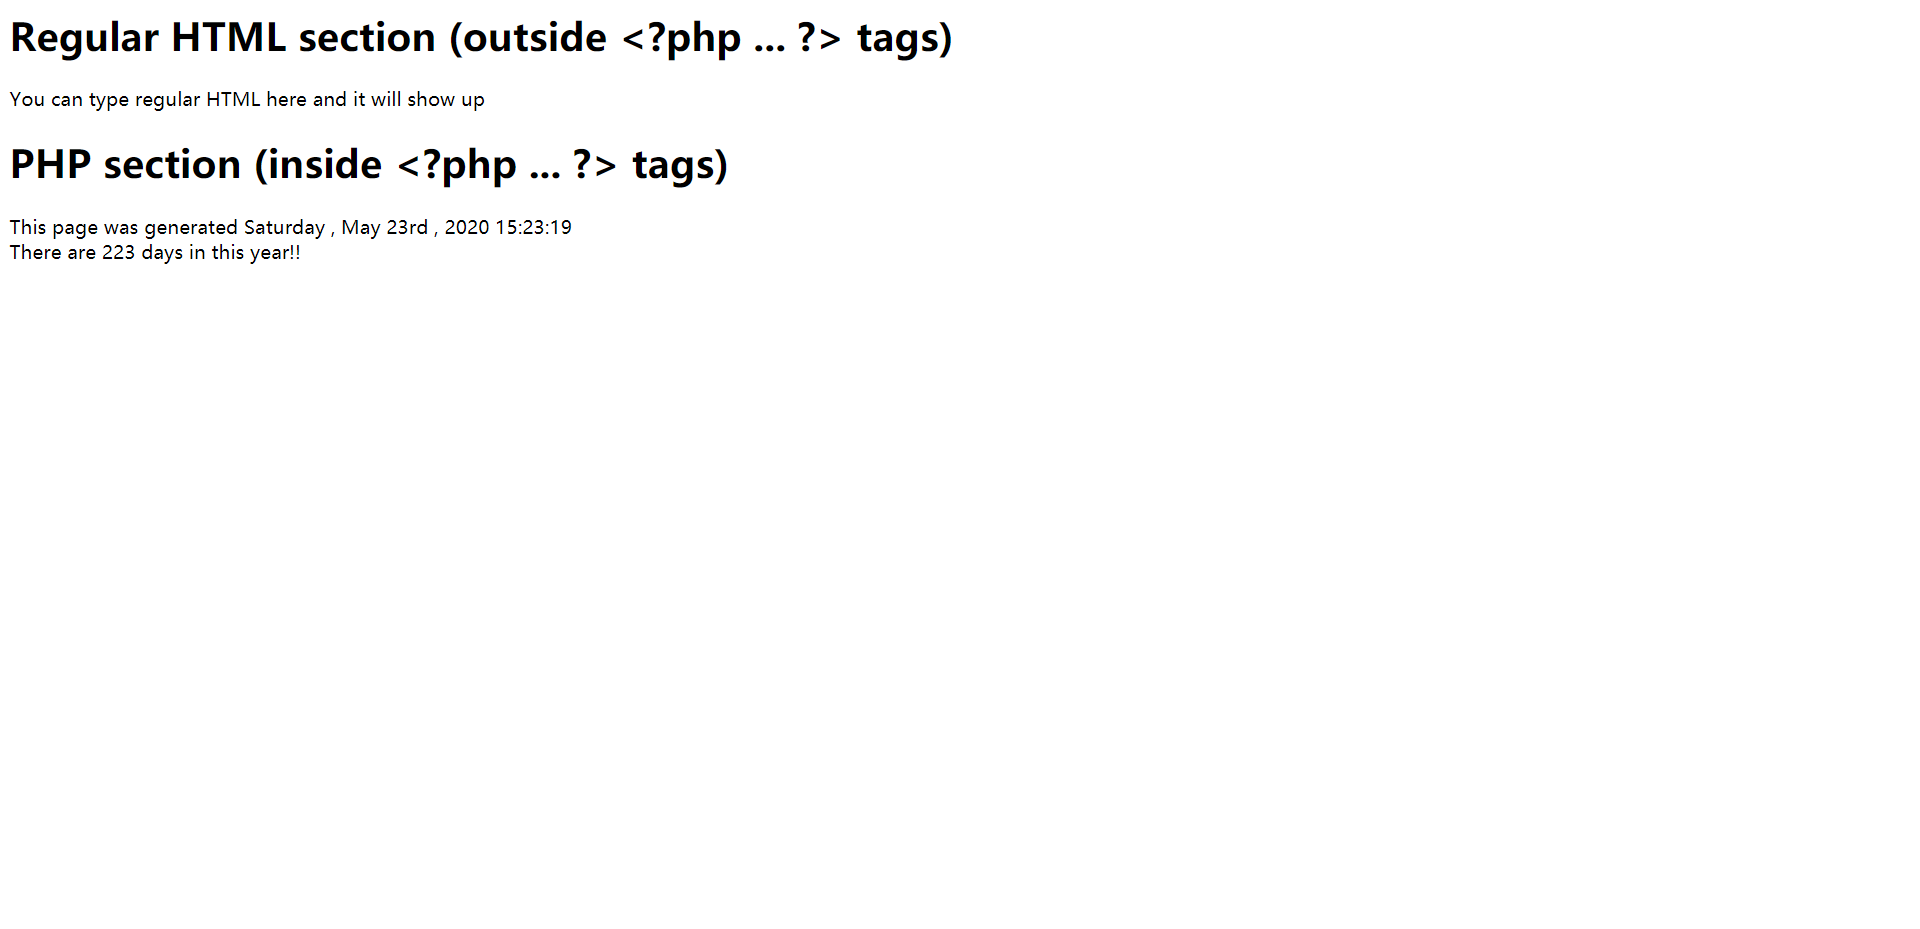
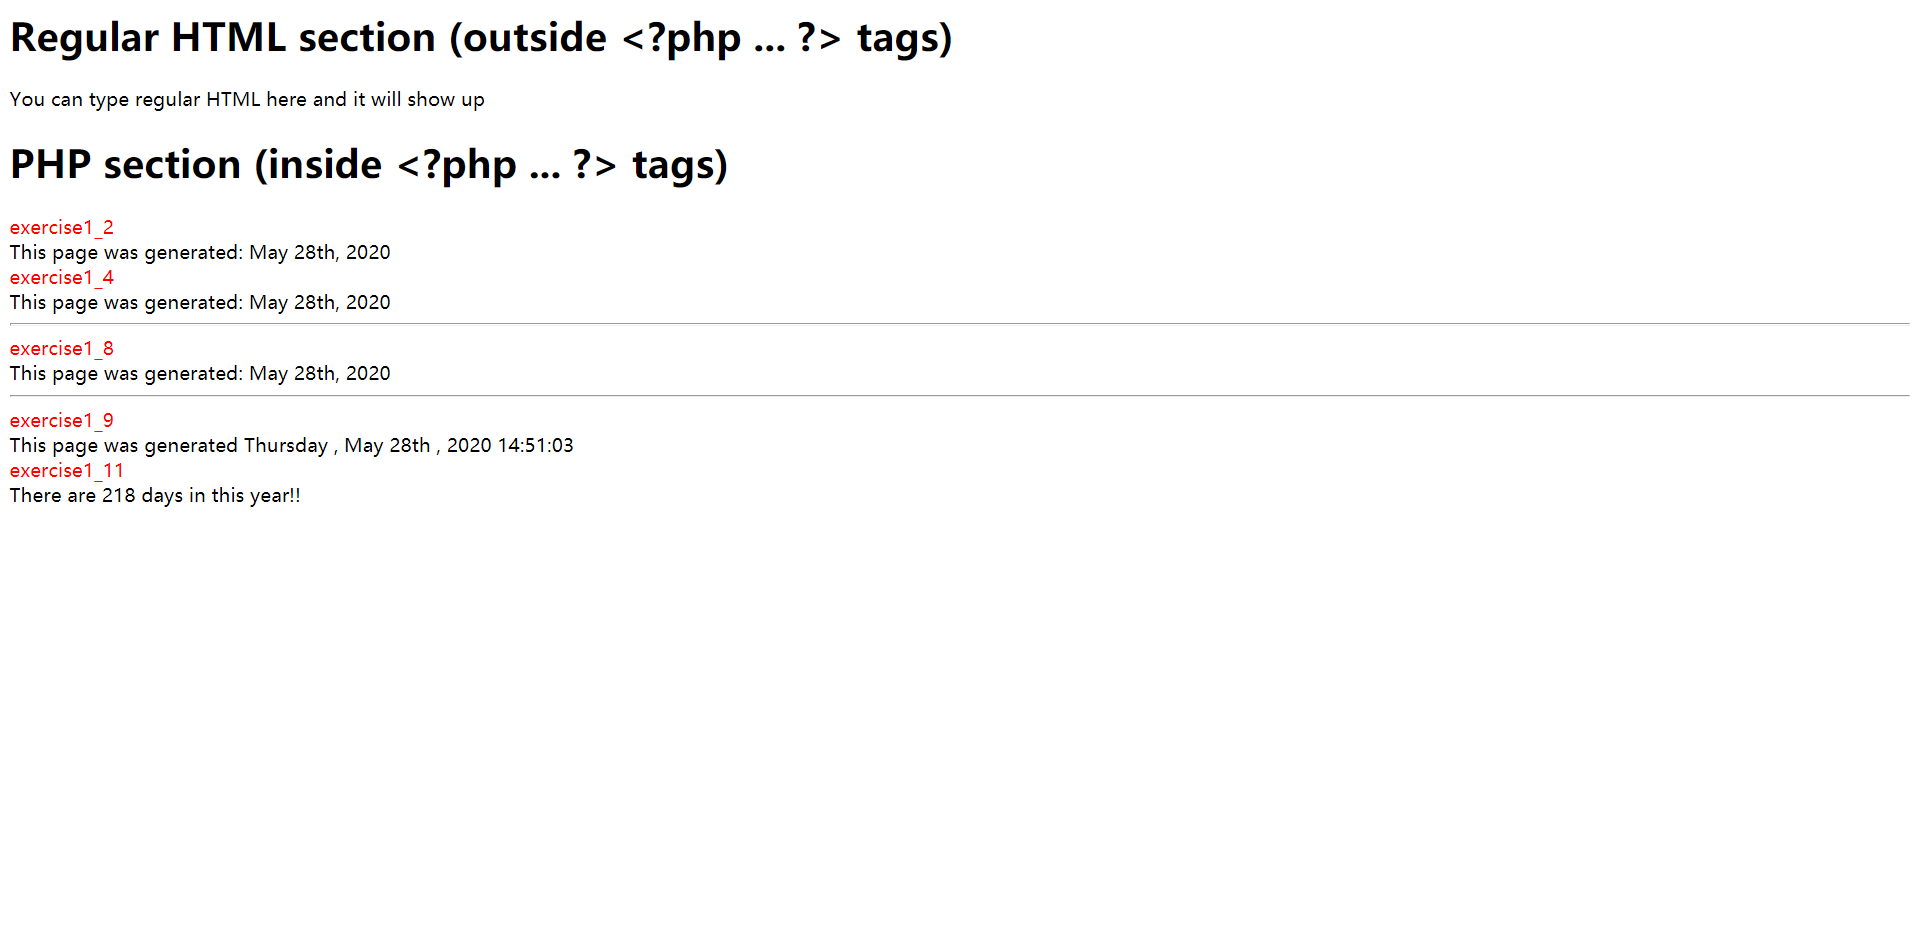
no message

Changed region(s): [[0.0, 0.2185, 0.3125, 0.5619]]

diff --git a/lab9/lab9-exercise1.php b/lab9/lab9-exercise1.php
@@ -9,11 +9,29 @@
 <h1>PHP section (inside &lt;?php ... ?&gt; tags)</h1>
 <?php
 //this is a php comment IN tags (will not appear)
+
+//exercise1_2
+echo "<div style='color: red'>exercise1_2</div>";
+echo "This page was generated: " . date("M dS, Y");
+echo "<br>";
+
+//exercise1_4
+echo "<div style='color: red'>exercise1_4</div>";
+echo "This page was generated: " . date("M dS, Y") . "<hr/>";
+
+//exercise1_8
+$date = date("M dS, Y");
+echo "<div style='color: red'>exercise1_8</div>";
+echo "This page was generated: " . $date . "<hr/>";
+
+//exercise1_9
+echo "<div style='color: red'>exercise1_9</div>";
 $d = date("l , F dS , Y H:i:s");
 echo "This page was generated " . $d;
 echo "</br>";
 
-
+//exercise1_11
+echo "<div style='color: red'>exercise1_11</div>";
 $isLeapYear = date("L");
 if ($isLeapYear) {
     $remainingDays = 366 - date("z");
